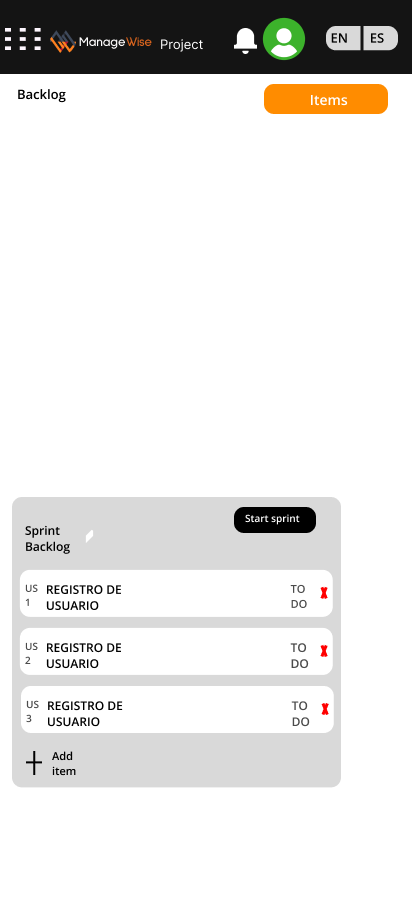
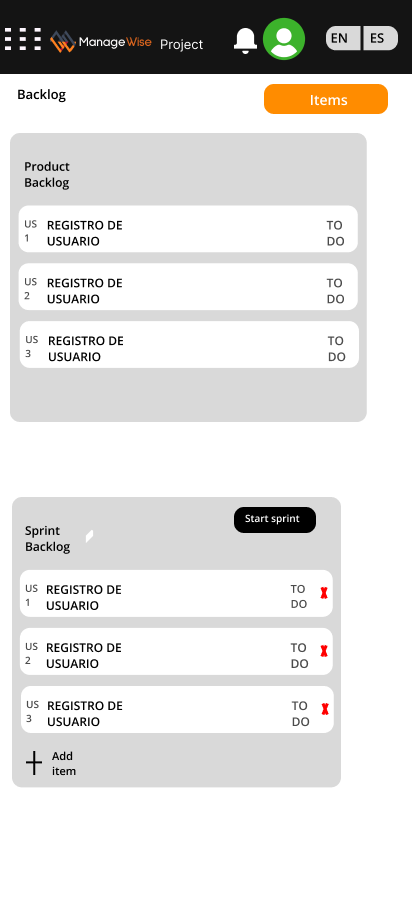
feat: added mobile wireframes

Changed region(s): [[0.0, 0.1221, 0.9029, 0.458]]

diff --git a/feature/chapter-4.md b/feature/chapter-4.md
@@ -408,11 +408,43 @@ El formulario de inicio de sesión se adapta a la pantalla del dispositivo, perm
 
 ### 4.4. Mobile Applications UX/UI Design
 
-
-
 #### 4.4.1. Mobile Applications Wireframes.
 
+En la sección Backlog, el usuario podrá visualizar el product backlog y puede crear un sprint backlog, añadiendo backlog items a este. Además cuenta con una vista Backlog items, en donde en caso tener permisos, puede gestionar estos.
+<br>
+<img src="../assets/images/wireframes/movil-backlog.png">
+<br>
+Vista Backlog Items
+<br>
+<img src="../assets/images/wireframes/movil-backlog-us.png">
+<br>
+<br>
 
+En la sección Members, el usuario visualiza a los diferentes miembros del equipo, puediendo añadir mas en caso desearlo. Además en caso seleccionar Groups, podrá gestionar estos.
+<br>
+<img src="../assets/images/wireframes/movil-members.png">
+<br>
+<br>
+
+En la sección de Statistics, el usuario podrá visualizar diferentes datos estadísticos sobre el proyecto y en caso seleccionar Timeline, podra ver el cronograma de este.
+<br>
+<img src="../assets/images/wireframes/movil-statistics.png">
+<br>
+<br>
+
+En la sección Meeting el usuario podrá visualizar si se encuentra activa alguna reunión e ingresar a esta.
+<br>
+<img src="../assets/images/wireframes/movil-meeting.png">
+<br>
+<br>
+
+En la sección Issues, el usuario crear reportes sobre incidencias, además de visualizar los ya existentes.Ademas ,puede añadir eventos dentro del historial de eventos de cambios para el issue , de esta manera mantiene informado a los miembros.
+<br>
+<img src="../assets/images/wireframes/movil-issues.png">
+<br>
+<br>
+
+</p>
 
 #### 4.4.2. Mobile Applications Wireflow Diagrams.
 
